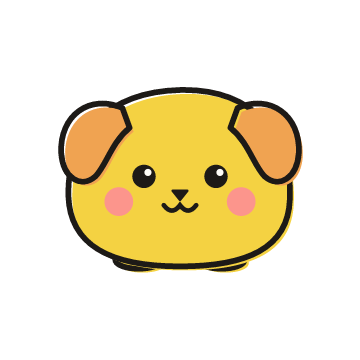
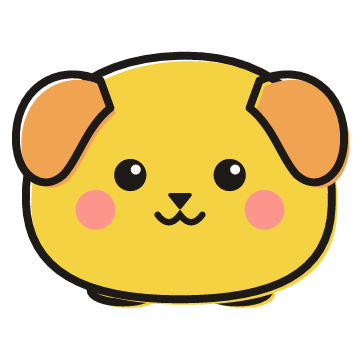
widgets: larger pet art, versioned art files in the App Group
Pet pictures fill their frame; iOS copies art under a versioned name so a
device picks up new art instead of keeping the first copy. Verified on the
iOS simulator: small and medium widgets render live data, tapping opens the
focused screen, and a partner's vibe change reaches the widget.

diff --git a/scripts/make-icon.ts b/scripts/make-icon.ts
@@ -146,15 +146,15 @@ const splash = () => `<svg xmlns="http://www.w3.org/2000/svg" viewBox="0 0 1024 
  * Widgets can't run the app's SVG renderer, so they show these pictures instead.
  */
 const petArt = (kind: "awake" | "sleepy" | "egg") => {
-  // Centre the pet box's content (x 34–166, y 70–171; the egg y 44–176) in an 840 square.
+  // Centre the pet box's content (x 34–166, y 70–171; the egg y 44–176) in an 840 square, filling most of it.
   const body =
     kind === "egg"
-      ? `<g transform="translate(0 -42) scale(4.2)">
+      ? `<g transform="translate(-140 -196) scale(5.6)">
           <path d="${PET.egg.whole}" fill="${palette.sunken}" transform="translate(2.2 2.2)"/>
           <path d="${PET.egg.whole}" fill="${palette.paper}" stroke="${C.ink}" stroke-width="3" stroke-linejoin="round"/>
           ${PET.egg.speckles.map((d) => `<circle cx="${d.x}" cy="${d.y}" r="${d.r}" fill="${palette[d.c]}"/>`).join("")}
         </g>`
-      : `<g transform="translate(0 -84) scale(4.2)">${mochiBox({ sleepy: kind === "sleepy", feet: true })}</g>`;
+      : `<g transform="translate(-160 -276) scale(5.8)">${mochiBox({ sleepy: kind === "sleepy", feet: true })}</g>`;
   return `<svg xmlns="http://www.w3.org/2000/svg" viewBox="0 0 840 840" width="840" height="840">${body}</svg>`;
 };
 

diff --git a/apps/mobile/src/features/widgets/publish.ios.ts b/apps/mobile/src/features/widgets/publish.ios.ts
@@ -11,12 +11,15 @@ const ART: Record<PetArt, number> = {
   egg: require("../../../assets/widget/pet-egg.png"),
 };
 
+/** Bump when the pet art changes, so devices copy the new pictures instead of keeping the old ones. */
+const ART_VERSION = 2;
+
 /**
  * The widget extension can only read files in the shared App Group directory, so the pet
- * pictures are copied there once (they're bundled with the app).
+ * pictures are copied there once per art version (they're bundled with the app).
  */
 async function artUrl(kind: PetArt): Promise<string> {
-  const target = new File(new Directory(widgetsDirectory), `pet-${kind}.png`);
+  const target = new File(new Directory(widgetsDirectory), `pet-${kind}-v${ART_VERSION}.png`);
   if (!target.exists) {
     const asset = await Asset.fromModule(ART[kind]).downloadAsync();
     if (asset.localUri) await new File(asset.localUri).copy(target);
